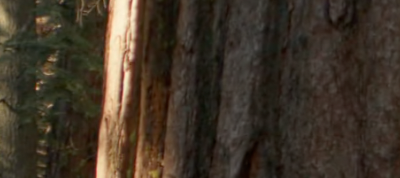
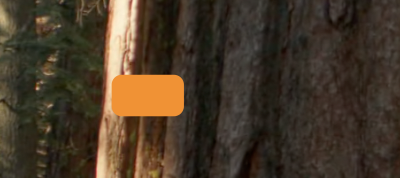
feat: add readme

Changed region(s): [[0.27, 0.3933, 0.48, 0.6742]]

diff --git a/readme.md b/readme.md
@@ -1,0 +1,1 @@
+That's a readme file for the Argos project. It contains information about the project, how to set it up, and how to contribute.
